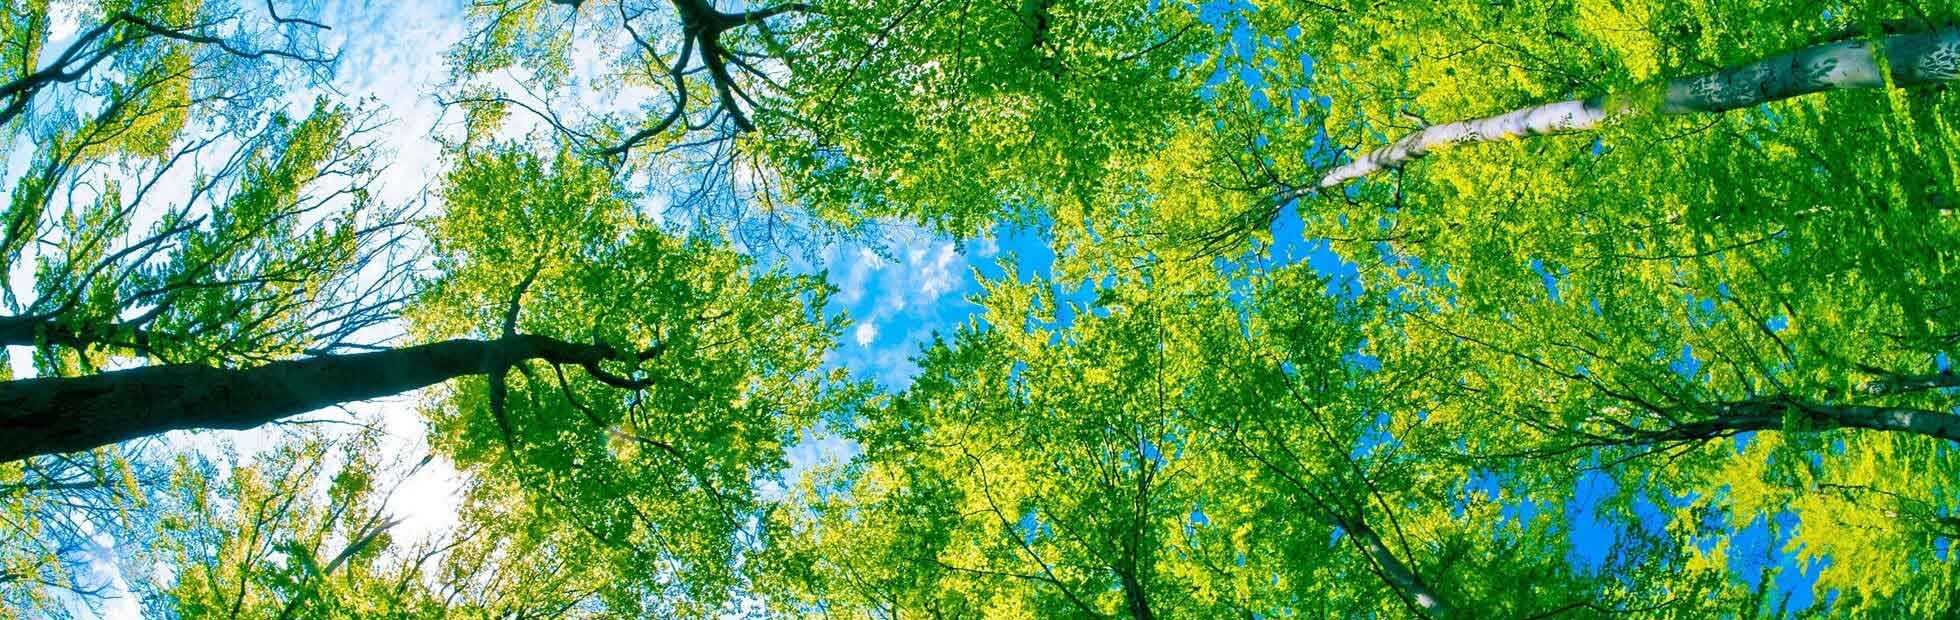
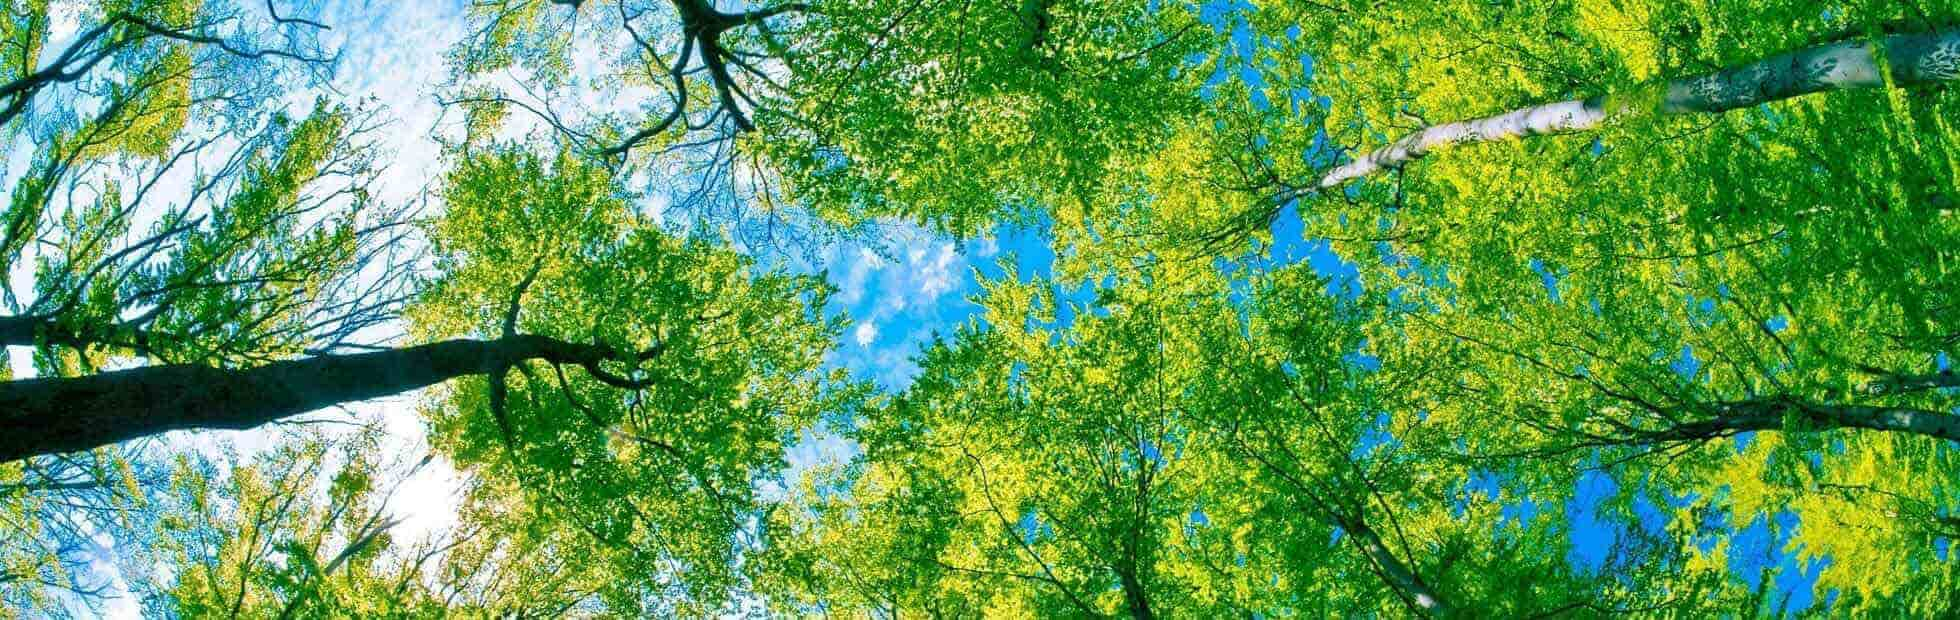
Fixing https errors, reducing image sizes

diff --git a/index.html b/index.html
@@ -8,7 +8,7 @@
 	<meta content="ACT Tree Felling is Canberra's first tree surgery service. We use ActewAGL Accredited Qualified Aborists" name="description">
 	<link href="favicon.ico"rel="shortcut icon">
 	<!--style-->
-	<link href='http://fonts.googleapis.com/css?family=Lato:300,400,700' rel='stylesheet' type='text/css'>
+	<link href='https://fonts.googleapis.com/css?family=Lato:300,400,700' rel='stylesheet' type='text/css'>
 	<link href='css/output.min.css' media='all' rel='stylesheet' type='text/css'>
 	
 	<script type='text/javascript'>
@@ -215,7 +215,7 @@
 						<div class="FB_banner">
 							<h2 style="color:#FFF;"><img src="images/facebook_banner.jpg" width="49" height="39">Facebook news</h2>
 						</div>
-						<iframe src="http://www.facebook.com/plugins/likebox.php?href=https%3A%2F%2Fwww.facebook.com%2Facttreefelling&width=460&height=500&colorscheme=light&show_faces=false&header=false&stream=true&show_border=false" scrolling="no" frameborder="0" style="border:none; overflow:hidden; width:460px; height:500px;" allowTransparency="true"></iframe>
+						<iframe src="https://www.facebook.com/plugins/likebox.php?href=https%3A%2F%2Fwww.facebook.com%2Facttreefelling&width=460&height=500&colorscheme=light&show_faces=false&header=false&stream=true&show_border=false" scrolling="no" frameborder="0" style="border:none; overflow:hidden; width:460px; height:500px;" allowTransparency="true"></iframe>
 					</div>
 				</div>
 			</div>

diff --git a/faq.html b/faq.html
@@ -6,9 +6,9 @@
 	<meta charset="UTF-8">
 	<meta content="width=device-width, initial-scale=1, maximum-scale=1" name="viewport">
 	<meta content="" name="description">
-	<link href="http://act.com/images/favicon.ico"rel="shortcut icon">
+	<link href="/favicon.ico"rel="shortcut icon">
 	<!--style-->
-	<link href='http://fonts.googleapis.com/css?family=Lato:300,400,700' rel='stylesheet' type='text/css'>
+	<link href='https://fonts.googleapis.com/css?family=Lato:300,400,700' rel='stylesheet' type='text/css'>
 	<link href='css/output.min.css' media='all' rel='stylesheet' type='text/css'>
 	<!-- scripts -->
 	<script src='scripts/main.min.js' async type='text/javascript'></script>

diff --git a/about.html b/about.html
@@ -8,7 +8,7 @@
 	<meta content="ACT Tree Felling is Canberra's first tree surgery service. We use ActewAGL Accredited Qualified Aborists" name="description">
 	<link href="/favicon.ico"rel="shortcut icon">
 	<!--style-->
-	<link href='http://fonts.googleapis.com/css?family=Lato:300,400,700' rel='stylesheet' type='text/css'>
+	<link href='https://fonts.googleapis.com/css?family=Lato:300,400,700' rel='stylesheet' type='text/css'>
 	<link href='css/output.min.css' media='all' rel='stylesheet' type='text/css'>
 	<!-- scripts -->
 	<script src='scripts/main.min.js' async type='text/javascript'></script>

diff --git a/contact.html b/contact.html
@@ -8,7 +8,7 @@
 	<meta content="ACT Tree Felling is Canberra's first tree surgery service. We use ActewAGL Accredited Qualified Aborists" name="description">
 	<link href="/favicon.ico"rel="shortcut icon">
 	<!--style-->
-	<link href='http://fonts.googleapis.com/css?family=Lato:300,400,700' rel='stylesheet' type='text/css'>
+	<link href='https://fonts.googleapis.com/css?family=Lato:300,400,700' rel='stylesheet' type='text/css'>
 	<link href='css/output.min.css' media='all' rel='stylesheet' type='text/css'>
 	<!-- scripts -->
 	<script src='scripts/main.min.js' async type='text/javascript'></script>

diff --git a/services.html b/services.html
@@ -8,7 +8,7 @@
 	<meta content="ACT Tree Felling is Canberra's first tree surgery service. We use ActewAGL Accredited Qualified Aborists" name="description">
 	<link href="/favicon.ico"rel="shortcut icon">
 	<!--style-->
-	<link href='http://fonts.googleapis.com/css?family=Lato:300,400,700' rel='stylesheet' type='text/css'>
+	<link href='https://fonts.googleapis.com/css?family=Lato:300,400,700' rel='stylesheet' type='text/css'>
 	<link href='css/output.min.css' media='all' rel='stylesheet' type='text/css'>
 	<!-- scripts -->
 	<script src='scripts/main.min.js' async type='text/javascript'></script>

diff --git a/survey.html b/survey.html
@@ -8,7 +8,7 @@
 	<meta content="ACT Tree Felling is Canberra's first tree surgery service. We use ActewAGL Accredited Qualified Aborists" name="description">
 	<link href="/favicon.ico"rel="shortcut icon">
 	<!--style-->
-	<link href='http://fonts.googleapis.com/css?family=Lato:300,400,700' rel='stylesheet' type='text/css'>
+	<link href='https://fonts.googleapis.com/css?family=Lato:300,400,700' rel='stylesheet' type='text/css'>
 	<link href='css/output.min.css' media='all' rel='stylesheet' type='text/css'>
 	<!-- scripts -->
 	<script src='scripts/main.min.js' async type='text/javascript'></script>

diff --git a/testimonials.html b/testimonials.html
@@ -8,7 +8,7 @@
 	<meta content="ACT Tree Felling is Canberra's first tree surgery service. We use ActewAGL Accredited Qualified Aborists" name="description">
 	<link href="/favicon.ico"rel="shortcut icon">
 	<!--style-->
-	<link href='http://fonts.googleapis.com/css?family=Lato:300,400,700' rel='stylesheet' type='text/css'>
+	<link href='https://fonts.googleapis.com/css?family=Lato:300,400,700' rel='stylesheet' type='text/css'>
 	<link href='css/output.min.css' media='all' rel='stylesheet' type='text/css'>
 	<!-- scripts -->
 	<script src='scripts/main.min.js' async type='text/javascript'></script>

diff --git a/careers.html b/careers.html
@@ -8,7 +8,7 @@
 	<meta content="" name="description">
 	<link href="http://act.com/images/favicon.ico"rel="shortcut icon">
 	<!--style-->
-	<link href='http://fonts.googleapis.com/css?family=Lato:300,400,700' rel='stylesheet' type='text/css'>
+	<link href='https://fonts.googleapis.com/css?family=Lato:300,400,700' rel='stylesheet' type='text/css'>
 	<link href='css/output.min.css' media='all' rel='stylesheet' type='text/css'>
 	<!-- scripts -->
 	<script src='scripts/main.min.js' async type='text/javascript'></script>
